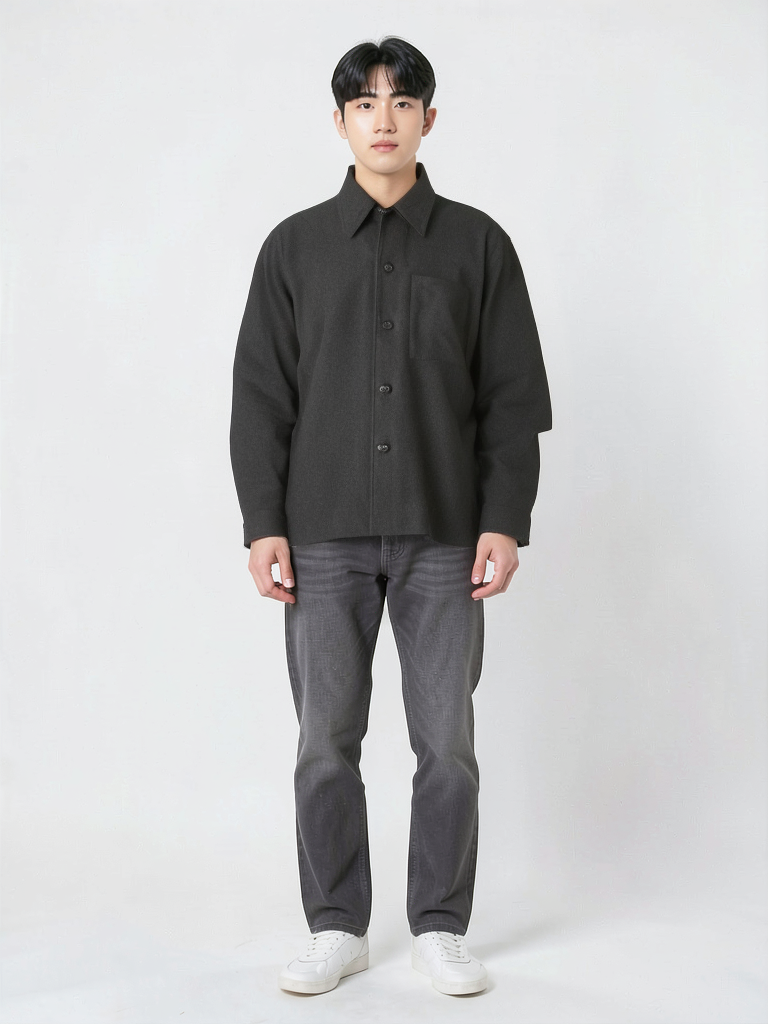
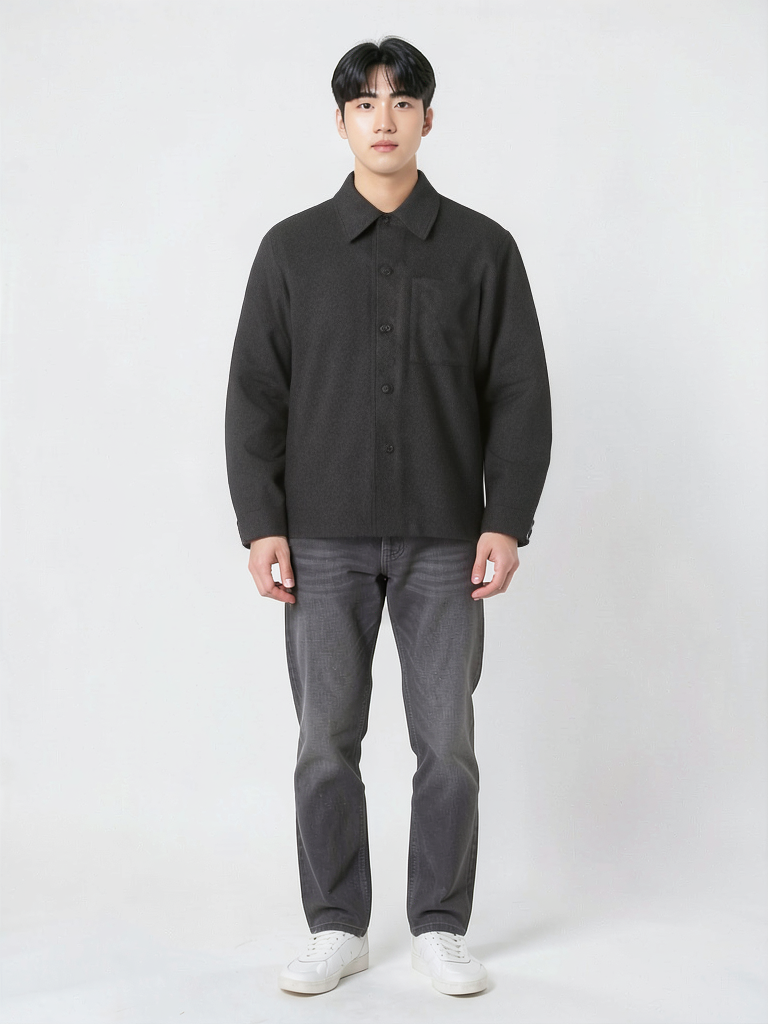
[S15P11A108-567] fix: 희동이 아우터 L 결과 재생성 (소매 이음선 아티팩트)
기존 seed=42 결과가 왼쪽 소매 팔꿈치 부근에 원단이 자연스럽게 안 이어지는
아티팩트가 있었다. 같은 worn-reference로 시드만 바꿔 3개(7/123/2026) 재생성해
비교했고, seed=2026이 소매·포켓·단추 라인 전부 깨끗해 채택했다.

diff --git a/AI/validation/TRYON/AI_tryon/CatVTON/regen_outer_heedongi_L_seed.py b/AI/validation/TRYON/AI_tryon/CatVTON/regen_outer_heedongi_L_seed.py
@@ -1,0 +1,99 @@
+"""heedongi 아우터 L 재생성 -- 원래 시드(42)에서 왼팔 소매 부근에 이음선 아티팩트가
+보여서 시드만 바꿔 재시도한다. worn-reference(FLUX 결과)는 이미 있는 걸 재사용하고
+CatVTON 합성 단계만 다시 돈다.
+
+설계: `verify_outer_worn_ref_as_person.py`와 동일 파이프라인, SEED만 인자로 받는다.
+"""
+
+import os
+import sys
+
+import numpy as np
+import torch
+from diffusers.image_processor import VaeImageProcessor
+from huggingface_hub import snapshot_download
+from PIL import Image
+
+from model.cloth_masker import AutoMasker, vis_mask
+from model.pipeline import CatVTONPipeline
+from utils import init_weight_dtype, resize_and_crop, resize_and_padding
+
+OUT_DIR = "result/outer_worn_ref_as_person"
+os.makedirs(OUT_DIR, exist_ok=True)
+
+WIDTH, HEIGHT = 768, 1024
+GUIDANCE_SCALE = 3.0
+NUM_INFERENCE_STEPS = 50
+
+PERSON_NAME = "heedongi"
+SIZE_LABEL = "L"
+REAL_GARMENT_PATH = os.path.join("image", "alpha_3", "outer.jpg")
+SEEDS = [int(s) for s in sys.argv[1:]] or [7, 123, 2026]
+
+print("=== 파이프라인 초기화 ===")
+repo_path = snapshot_download(repo_id="zhengchong/CatVTON")
+pipeline = CatVTONPipeline(
+    base_ckpt="booksforcharlie/stable-diffusion-inpainting",
+    attn_ckpt=repo_path,
+    attn_ckpt_version="mix",
+    weight_dtype=init_weight_dtype("bf16"),
+    use_tf32=True,
+    device="cuda",
+)
+pipeline.safety_checker = None
+
+
+def _bypass_safety_checker(self, image):
+    has_nsfw_concept = [False] * len(image) if isinstance(image, list) else [False]
+    return image, has_nsfw_concept
+
+
+pipeline.run_safety_checker = _bypass_safety_checker.__get__(pipeline)
+
+mask_processor = VaeImageProcessor(vae_scale_factor=8, do_normalize=False, do_binarize=True, do_convert_grayscale=True)
+automasker = AutoMasker(
+    densepose_ckpt=os.path.join(repo_path, "DensePose"),
+    schp_ckpt=os.path.join(repo_path, "SCHP"),
+    device="cuda",
+)
+print("초기화 완료")
+
+
+def composite_with_original(original_image, generated_image, mask):
+    original_np = np.array(original_image.resize(generated_image.size)).astype(np.float32)
+    generated_np = np.array(generated_image).astype(np.float32)
+    mask_np = np.array(mask.resize(generated_image.size).convert("L")).astype(np.float32) / 255.0
+    mask_np = np.expand_dims(mask_np, axis=-1)
+    composited = generated_np * mask_np + original_np * (1 - mask_np)
+    return Image.fromarray(composited.astype(np.uint8))
+
+
+real_garment_image = Image.open(REAL_GARMENT_PATH).convert("RGB")
+real_garment_image = resize_and_padding(real_garment_image, (WIDTH, HEIGHT))
+
+worn_ref_path = os.path.join("result", "worn_references", f"outer_worn_reference_{PERSON_NAME}_{SIZE_LABEL}.png")
+worn_ref_image = Image.open(worn_ref_path).convert("RGB")
+worn_ref_image = resize_and_crop(worn_ref_image, (WIDTH, HEIGHT))
+
+upper_mask = automasker(worn_ref_image, mask_type="upper", fit_type="regular")["mask"]
+upper_mask_blurred = mask_processor.blur(upper_mask, blur_factor=2)
+
+for seed in SEEDS:
+    generator = torch.Generator(device="cuda").manual_seed(seed)
+
+    print(f"\n=== 생성: {PERSON_NAME}_{SIZE_LABEL} seed={seed} ===")
+    result_image = pipeline(
+        image=worn_ref_image,
+        condition_image=real_garment_image,
+        mask=upper_mask_blurred,
+        num_inference_steps=NUM_INFERENCE_STEPS,
+        guidance_scale=GUIDANCE_SCALE,
+        generator=generator,
+    )[0]
+    final = composite_with_original(worn_ref_image, result_image, upper_mask_blurred)
+
+    out_path = os.path.join(OUT_DIR, f"tryon_{PERSON_NAME}_{SIZE_LABEL}_wornrefasperson_seed{seed}.png")
+    final.save(out_path)
+    print(f"완료 -> {out_path}")
+
+print("\n=== 전체 완료 ===")
